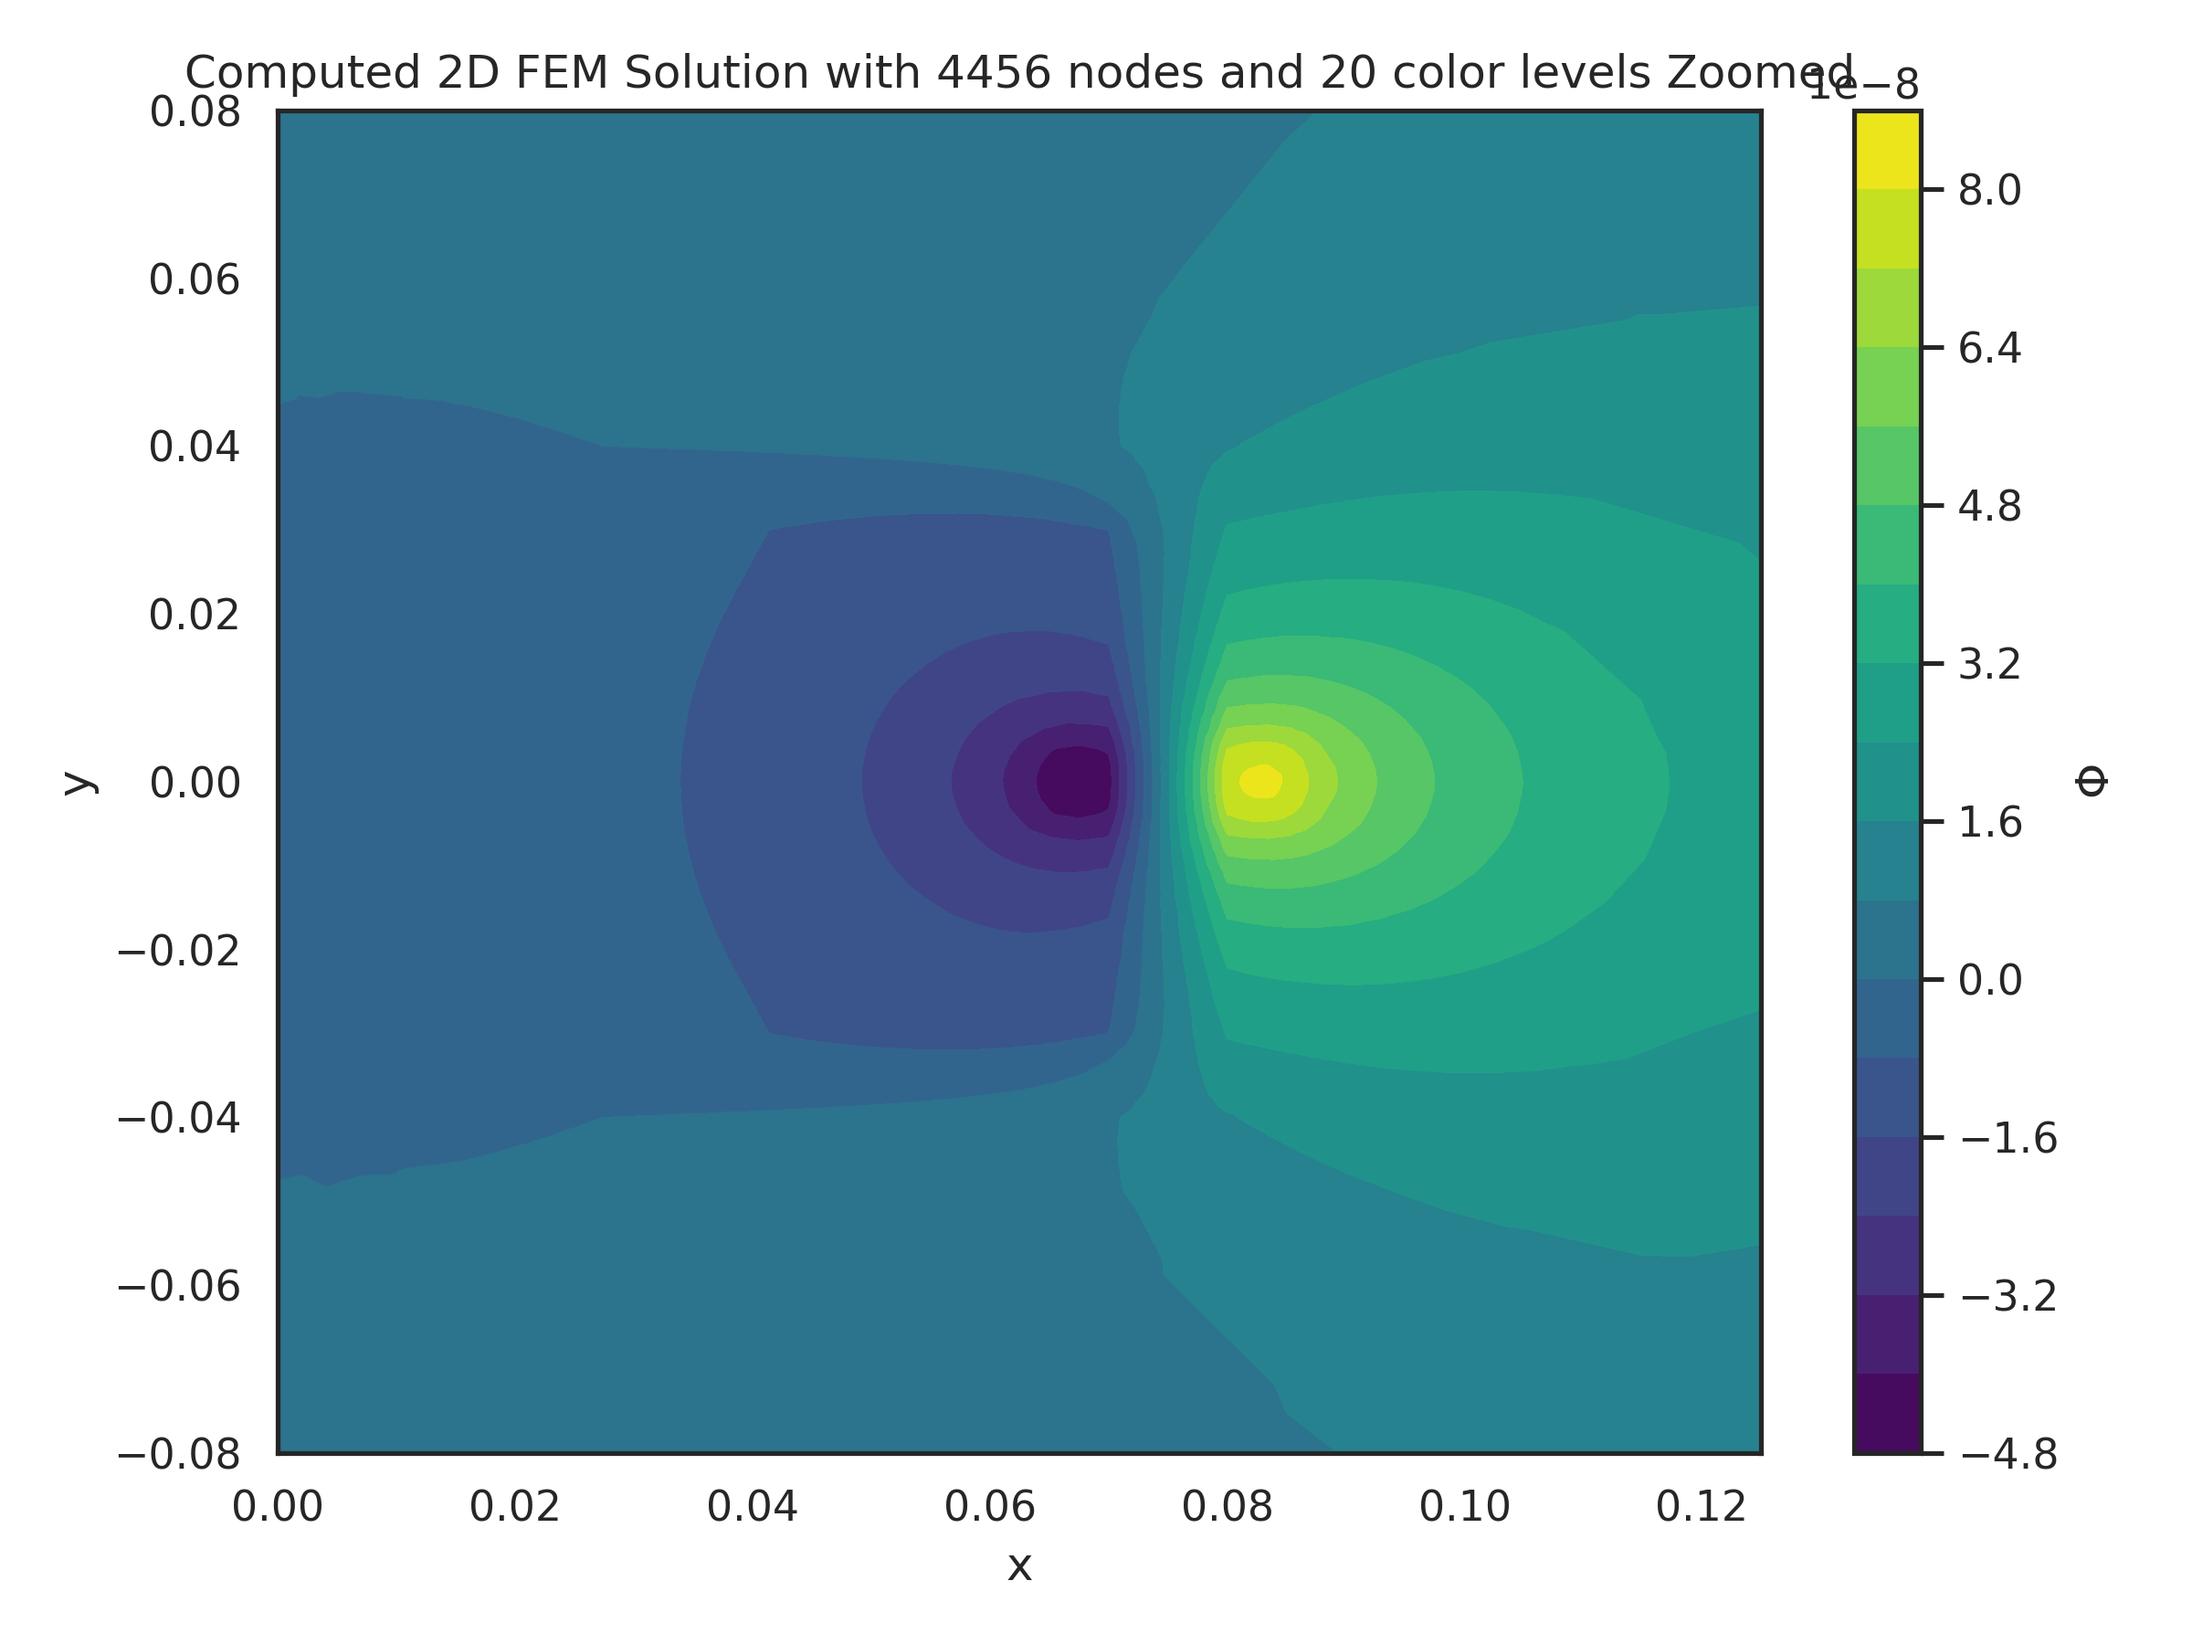
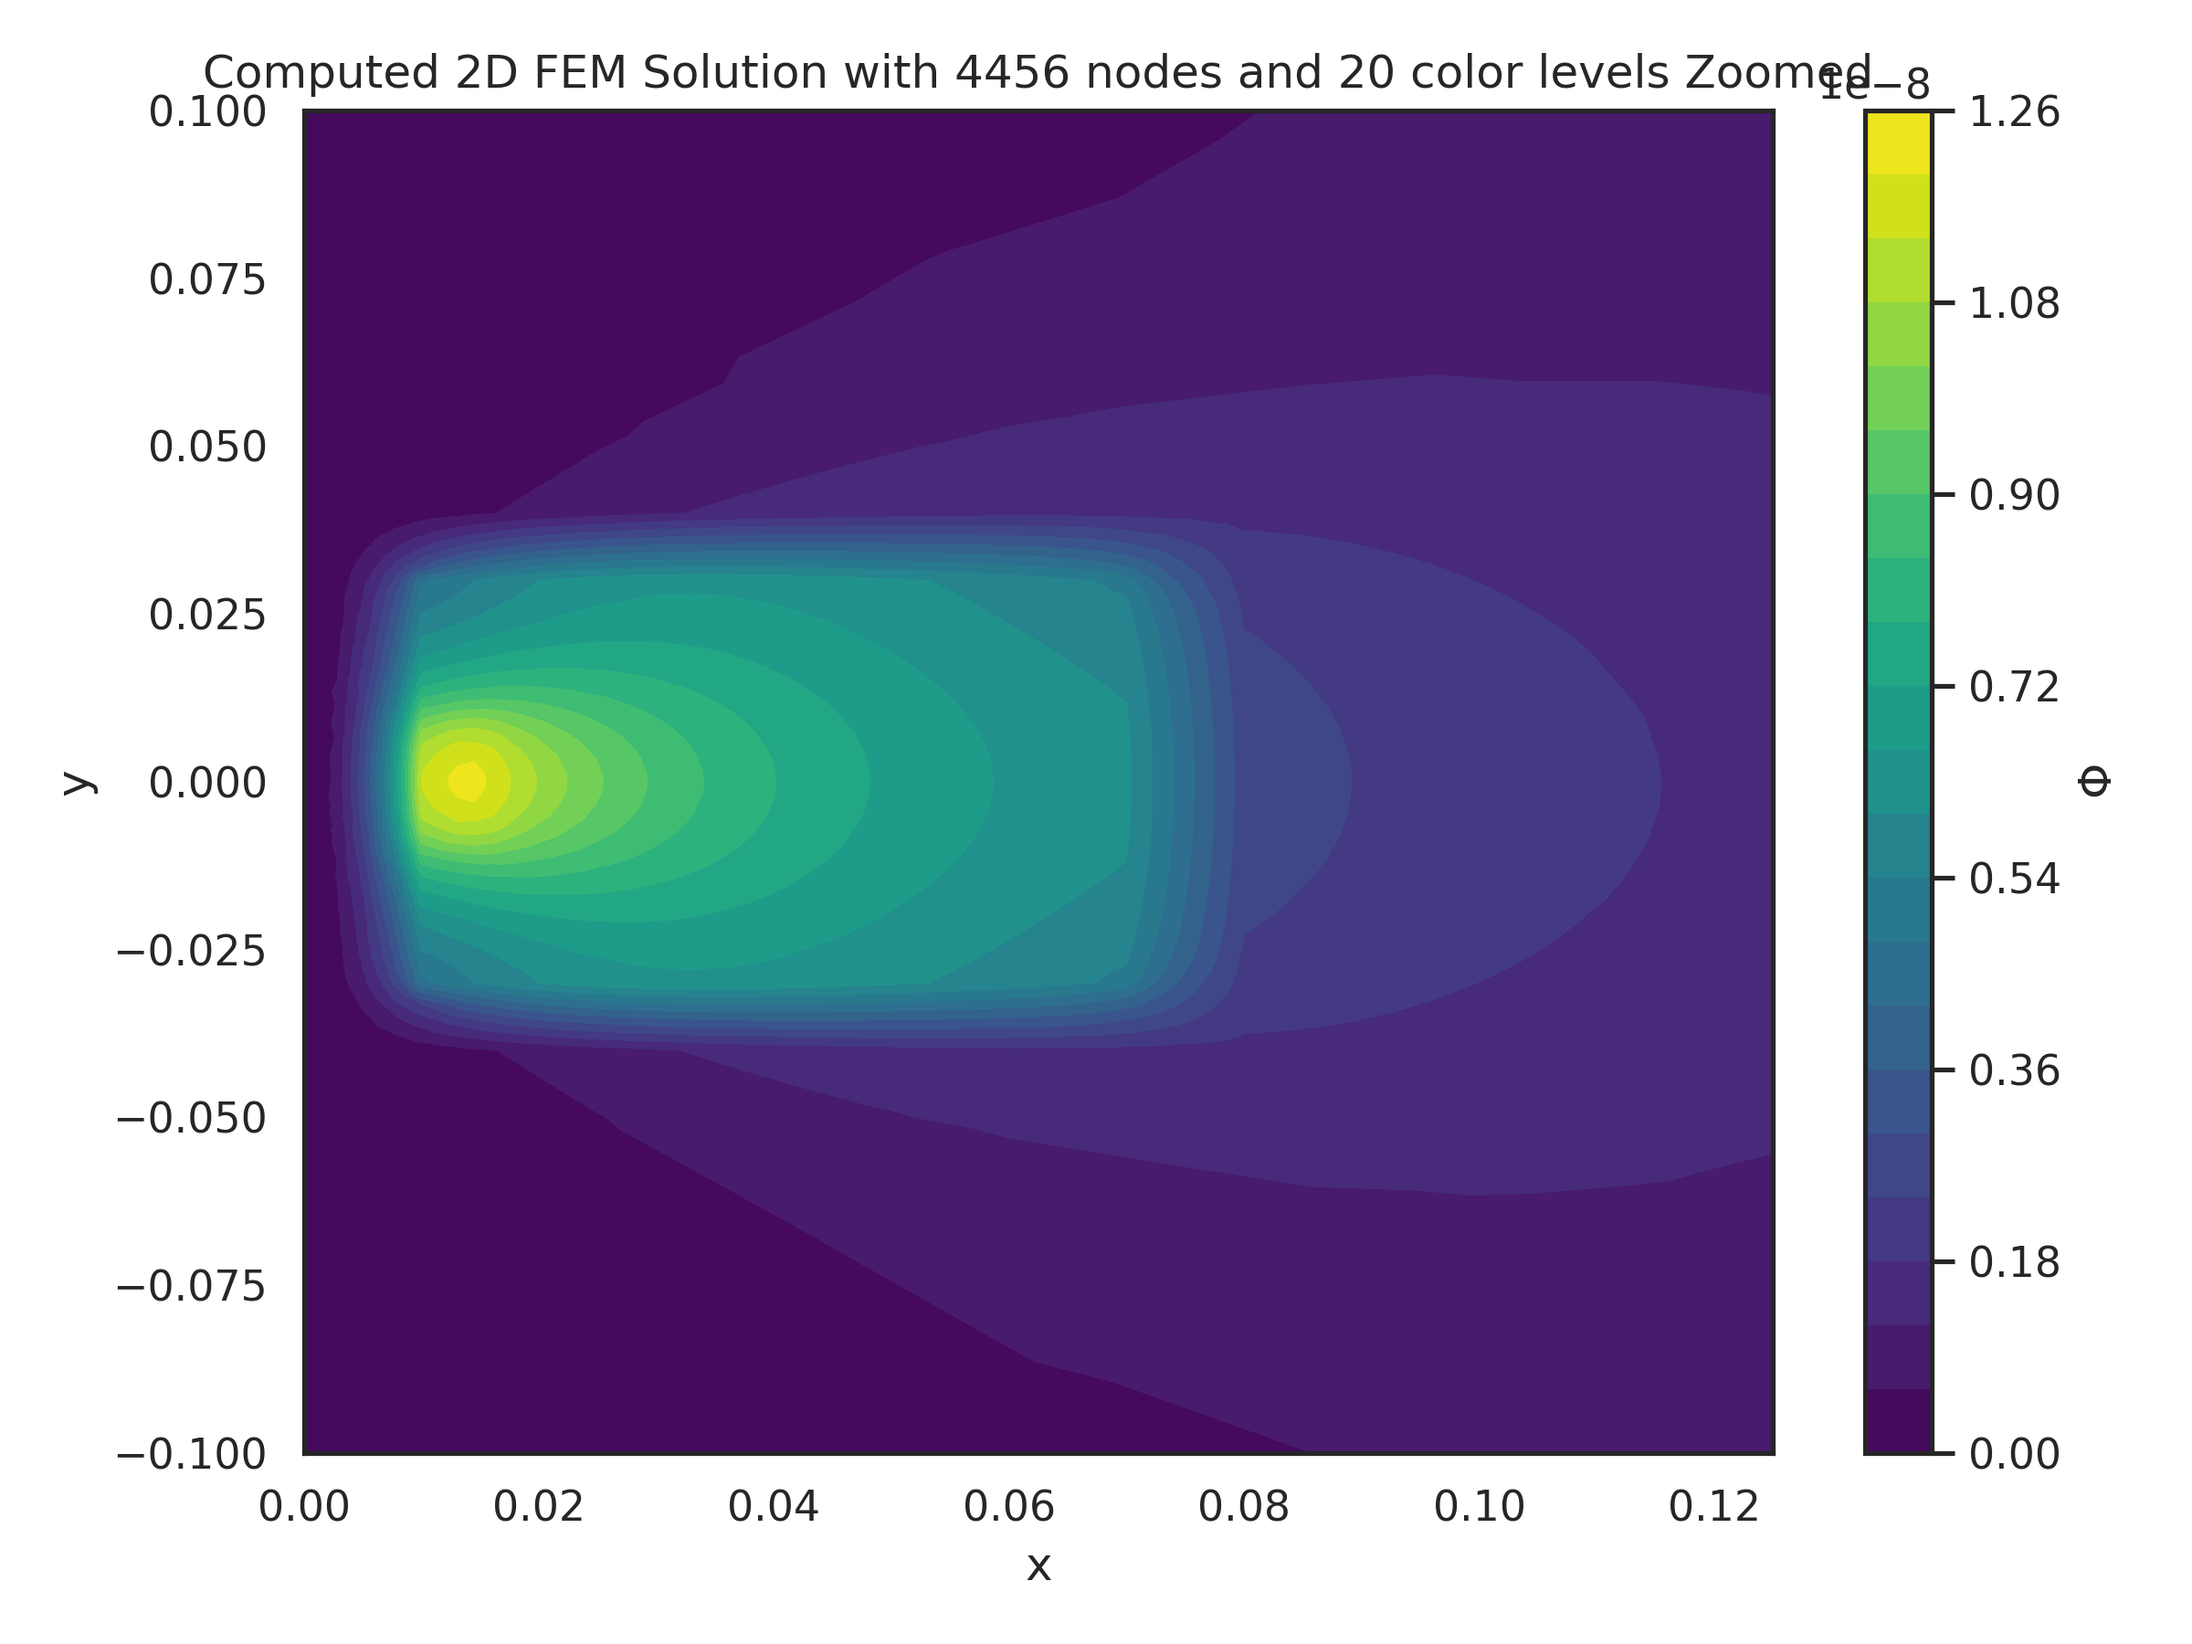
added constraints cgecker

diff --git a/functions.py b/functions.py
@@ -11,11 +11,12 @@
 
 # system
 import os
+import warnings
 
 # vectorized data
 import numpy as np
 import scipy.sparse as sp
-from scipy.sparse.linalg import spsolve
+from scipy.sparse.linalg import spsolve, MatrixRankWarning
 
 # dataframes
 import pandas as pd
@@ -96,6 +97,18 @@ def plot_knots_elements(knots: np.ndarray, elements=None, ax=None, x_label="x", 
     if ax is None:
         plt.tight_layout()
         plt.show()
+
+
+def _estimate_missing_bc(stiffness_matrix):
+    """stiffness_matrix: sp.lil_array"""
+
+    print("Calculating missing constraints ...")
+    stiffness_matrix = stiffness_matrix.toarray()
+
+    rank = np.linalg.matrix_rank(stiffness_matrix)
+    total_dof = stiffness_matrix.shape[0]
+
+    return rank, total_dof
 
 
 # _____________________________________________________________________________
@@ -429,18 +442,27 @@ def solve_system(
     -------
     solution_vector: Dataframe with columns ['x', 'y', 'Phi']
     """
+
+    with warnings.catch_warnings():
+        warnings.filterwarnings("error", category=MatrixRankWarning)
+        try:
     
-    if stiffness_matrix.shape[0] != load_vector.shape[0]:
-        raise ValueError("Shape mismatch: stiffness_matrix and load_vector")
+            if stiffness_matrix.shape[0] != load_vector.shape[0]:
+                raise ValueError("Shape mismatch: stiffness_matrix and load_vector")
 
-    stiffness_matrix_csr = stiffness_matrix.tocsr()
-    solution_vector = spsolve(stiffness_matrix_csr, load_vector)
+            stiffness_matrix_csr = stiffness_matrix.tocsr()
+            solution_vector = spsolve(stiffness_matrix_csr, load_vector)
 
-    return pd.DataFrame({
-        "x" : knots[:,0],
-        "y" : knots[:,1],
-        "Phi" : solution_vector
-    })
+            return pd.DataFrame({
+                "x" : knots[:,0],
+                "y" : knots[:,1],
+                "Phi" : solution_vector
+            })
+        except MatrixRankWarning:
+            rank, total_dof = _estimate_missing_bc(stiffness_matrix)
+            raise RuntimeError(f"Stiffness matrix is singular! Rank is {rank}, but there are {total_dof - rank} missing constraints. Probably missing dirichlet boundary conditions.")
+        except Exception as e:
+            raise RuntimeError(f"FEM solver failed: {e}")
 
 
 # _____________________________________________________________________________
